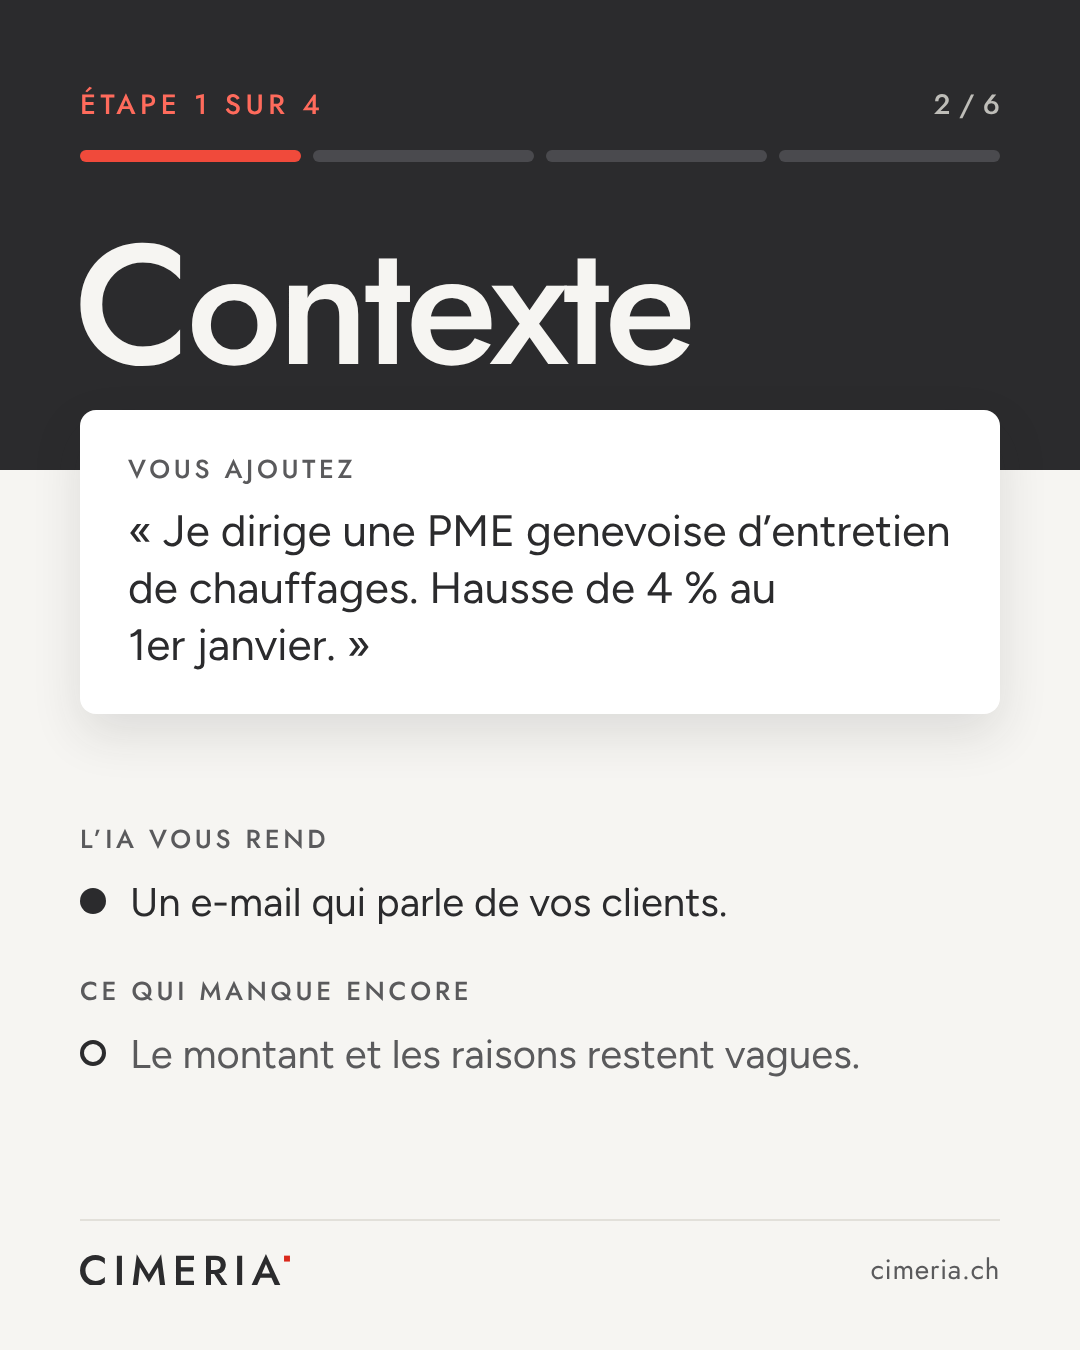
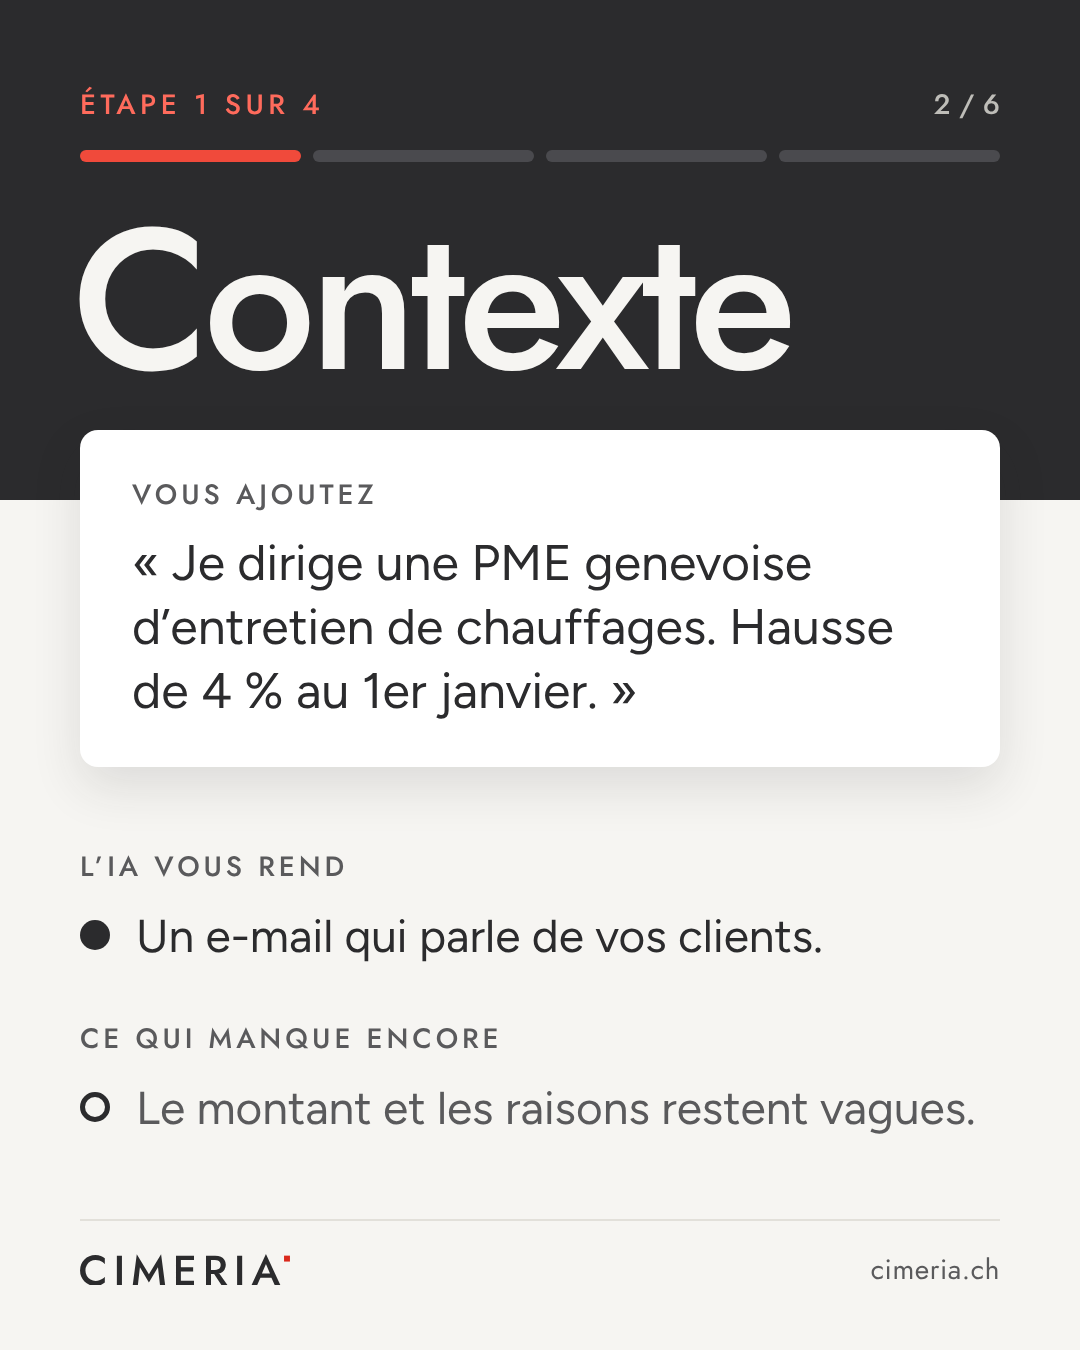
Maquettes v4 : espace mieux occupé
Claude-Session: https://claude.ai/code/session_01QYrK9sT28DGg33dLHEJ4sL

Changed region(s): [[0.0, 0.1556, 1.0, 0.56], [0.0611, 0.5911, 0.8861, 0.84]]

diff --git a/maquettes/2026-11-17/maquettes-v2.py b/maquettes/2026-11-17/maquettes-v2.py
@@ -70,8 +70,9 @@ def point_de_vue():
     return page(corps)
 
 # 4. Cas pratique, couverture illustrée (dessin au trait, un seul détail rouge)
-def illustration_email():
-    return f"""<svg viewBox='0 0 600 420' width='600' height='420' fill='none' stroke='{ENCRE}' stroke-width='6' stroke-linejoin='round' stroke-linecap='round'>
+def illustration_email(k=0.0):
+    w, h = (600, 420) if not k else (620, 434)
+    return f"""<svg viewBox='0 0 600 420' width='{w}' height='{h}' fill='none' stroke='{ENCRE}' stroke-width='6' stroke-linejoin='round' stroke-linecap='round'>
       <rect x='40' y='70' width='440' height='300' rx='14' fill='{BLANC}'/>
       <path d='M40 84 L260 240 L480 84'/>
       <path d='M40 356 L200 210 M480 356 L320 210'/>
@@ -135,8 +136,8 @@ def etape_v3(n, mot, ajout, gains, reste, lib_reste="Ce qui manque encore", cpt=
 def etape1(): return etape_v3(1, "Contexte", "Je dirige une PME genevoise d’entretien de chauffages. Hausse de 4 % au 1er\u00a0janvier.",
                              ["Un e-mail qui parle de vos clients."], "Le montant et les raisons restent vagues.", cpt="2 / 6")
 def etape4(): return etape_v3(4, "Cadre", "120 mots au plus. Signale-moi ce que tu as dû inventer.",
-                             ["Un e-mail de 105 mots, deux objets au choix.", "La liste de ce que l’IA a supposé."],
-                             "Vous relisez. Le texte part sous votre signature.", lib_reste="Votre part", cpt="5 / 6")
+                             ["Un e-mail de 105 mots.", "La liste de ce que l’IA a supposé."],
+                             "Vous relisez avant l’envoi.", lib_reste="Votre part", cpt="5 / 6")
 
 RENDUS = [("v3-1-chiffre.png", chiffre_v3), ("v3-5-etape-1.png", etape1), ("v3-5-etape-4.png", etape4)]
 
@@ -145,11 +146,11 @@ R_SOMBRE, BLANC_C, DOUCE_S = "#F04A3B", "#F6F5F2", "#BEBDB8"
 def chiffre_v4():
     corps = f"""<div style='position:absolute;inset:0;background:{ENCRE}'></div>
     <div class='rub' style='color:#FF6B5C'>Le chiffre</div>
-    <div style='position:absolute;left:72px;top:150px;font-family:Jost;font-weight:500;font-size:330px;line-height:1;letter-spacing:-.04em;color:{BLANC_C}'><span style='color:{R_SOMBRE}'>1</span> sur 3</div>
-    <div style='position:absolute;left:80px;right:80px;top:520px;font-family:Jost;font-weight:500;font-size:58px;line-height:1.15;letter-spacing:-.01em;color:{BLANC_C}'>Seule une PME suisse sur trois qui utilise l’IA a fixé des règles claires pour protéger ses données.</div>
-    <div style='position:absolute;left:80px;right:80px;top:840px;padding-top:40px;border-top:2px solid #4A4A4E;font-size:40px;line-height:1.35;color:{DOUCE_S}'>
+    <div style='position:absolute;left:66px;top:140px;white-space:nowrap;font-family:Jost;font-weight:500;font-size:345px;line-height:1;letter-spacing:-.045em;color:{BLANC_C}'><span style='color:{R_SOMBRE}'>1</span> sur 3</div>
+    <div style='position:absolute;left:80px;right:80px;top:560px;font-family:Jost;font-weight:500;font-size:62px;line-height:1.14;letter-spacing:-.01em;color:{BLANC_C}'>Seule une PME suisse sur trois qui utilise l’IA a fixé des règles claires pour protéger ses données.</div>
+    <div style='position:absolute;left:80px;right:80px;top:850px;padding-top:44px;border-top:2px solid #4A4A4E;font-size:46px;line-height:1.35;color:{DOUCE_S}'>
       Une page suffit. Elle dit ce qui entre dans l’outil, ce qui n’y entre jamais et qui relit avant l’envoi.</div>
-    <div style='position:absolute;left:80px;right:80px;top:1150px;font-size:26px;color:{DOUCE_S}'>Source · AXA, étude sur le marché du travail des PME, édition 2025.</div>
+    <div style='position:absolute;left:80px;right:80px;top:1168px;font-size:26px;color:{DOUCE_S}'>Source · AXA, étude sur le marché du travail des PME, édition 2025.</div>
     <div class='pied' style='border-top-color:#4A4A4E'>{g.logotype(BLANC_C, ROUGE, 210)}<div class='site' style='color:{DOUCE_S}'>cimeria.ch</div></div>"""
     return page(corps)
 
@@ -161,35 +162,36 @@ def progression_v4(n, total=4):
         f"<div style='flex:1;height:12px;border-radius:6px;background:{R_SOMBRE if i < n else '#4A4A4E'}'></div>" for i in range(total)) + "</div>"
 
 def etape_v4(n, mot, ajout, gains, reste, lib_reste="Ce qui manque encore", cpt=""):
-    puce = lambda plein: f"<div style='width:26px;height:26px;border-radius:50%;flex:none;margin-top:12px;{'background:'+ENCRE if plein else 'border:4px solid '+ENCRE}'></div>"
-    lignes = "".join(f"<div style='display:flex;gap:24px;font-size:40px;line-height:1.3;margin-top:18px'>{puce(True)}<div>{e(x)}</div></div>" for x in gains)
-    etiq = lambda t, m=0: f"<div style='font-family:Jost;font-weight:500;font-size:26px;letter-spacing:.14em;text-transform:uppercase;color:{DOUCE};margin-top:{m}px'>{t}</div>"
-    corps = f"""{bandeau(470)}
+    puce = lambda plein: f"<div style='width:30px;height:30px;border-radius:50%;flex:none;margin-top:13px;{'background:'+ENCRE if plein else 'border:5px solid '+ENCRE}'></div>"
+    lignes = "".join(f"<div style='display:flex;gap:26px;font-size:46px;line-height:1.28;margin-top:20px'>{puce(True)}<div>{e(x)}</div></div>" for x in gains)
+    etiq = lambda t, m=0: f"<div style='font-family:Jost;font-weight:500;font-size:28px;letter-spacing:.14em;text-transform:uppercase;color:{DOUCE};margin-top:{m}px'>{t}</div>"
+    corps = f"""{bandeau(500)}
     <div class='rub' style='color:#FF6B5C'>Étape {n} sur 4</div><div class='cpt' style='color:{DOUCE_S}'>{cpt}</div>
     <div style='position:absolute;left:80px;right:80px;top:150px'>{progression_v4(n)}</div>
-    <div style='position:absolute;left:74px;top:220px;font-family:Jost;font-weight:500;font-size:170px;line-height:1;letter-spacing:-.03em;color:{BLANC_C}'>{e(mot)}</div>
-    <div style='position:absolute;left:80px;right:80px;top:410px;background:{BLANC};border-radius:16px;padding:40px 48px;box-shadow:0 20px 50px rgba(43,43,45,.12)'>
-      {etiq('Vous ajoutez')}
-      <div style='font-size:44px;line-height:1.3;margin-top:14px'>« {e(ajout)} »</div></div>
-    <div style='position:absolute;left:80px;right:80px;top:820px'>
-      {etiq('L’IA vous rend')}{lignes}
-      {etiq(e(lib_reste), 44)}
-      <div style='display:flex;gap:24px;font-size:40px;line-height:1.3;margin-top:18px;color:{DOUCE}'>{puce(False)}<div>{e(reste)}</div></div></div>
+    <div style='position:absolute;left:72px;top:200px;font-family:Jost;font-weight:500;font-size:200px;line-height:1;letter-spacing:-.035em;color:{BLANC_C}'>{e(mot)}</div>
+    <div style='position:absolute;left:80px;right:80px;top:430px;bottom:170px;display:flex;flex-direction:column'>
+      <div style='background:{BLANC};border-radius:18px;padding:44px 52px;box-shadow:0 20px 50px rgba(43,43,45,.12)'>
+        {etiq('Vous ajoutez')}
+        <div style='font-size:50px;line-height:1.28;margin-top:16px'>« {e(ajout)} »</div></div>
+      <div style='flex:1;display:flex;flex-direction:column;justify-content:center;padding-top:36px'>
+        {etiq('L’IA vous rend')}{lignes}
+        {etiq(e(lib_reste), 52)}
+        <div style='display:flex;gap:26px;font-size:46px;line-height:1.28;margin-top:20px;color:{DOUCE}'>{puce(False)}<div>{e(reste)}</div></div></div></div>
     {pied()}"""
     return page(corps)
 
 def etape1_v4(): return etape_v4(1, "Contexte", "Je dirige une PME genevoise d’entretien de chauffages. Hausse de 4 % au 1er\u00a0janvier.",
                              ["Un e-mail qui parle de vos clients."], "Le montant et les raisons restent vagues.", cpt="2 / 6")
 def etape4_v4(): return etape_v4(4, "Cadre", "120 mots au plus. Signale-moi ce que tu as dû inventer.",
-                             ["Un e-mail de 105 mots, deux objets au choix.", "La liste de ce que l’IA a supposé."],
-                             "Vous relisez. Le texte part sous votre signature.", lib_reste="Votre part", cpt="5 / 6")
+                             ["Un e-mail de 105 mots.", "La liste de ce que l’IA a supposé."],
+                             "Vous relisez avant l’envoi.", lib_reste="Votre part", cpt="5 / 6")
 
 def couverture_v4():
-    corps = f"""{bandeau(640)}
+    corps = f"""{bandeau(700)}
     <div class='rub' style='color:#FF6B5C'>Cas pratique</div><div class='cpt' style='color:{DOUCE_S}'>1 / 6</div>
-    <div class='titre' style='font-size:92px;color:{BLANC_C}'>Annoncer une hausse de prix avec l’IA<div class='sous' style='color:{DOUCE_S};font-size:38px'>Un e-mail prêt à relire en 4 étapes.</div></div>
-    <div style='position:absolute;left:0;right:0;top:700px;display:flex;justify-content:center'>{illustration_email()}</div>
-    <div style='position:absolute;left:80px;right:80px;top:1140px;font-size:26px;color:{DOUCE};text-align:center'>Exemple fictif d’une PME genevoise de 18 collaborateurs.</div>
+    <div class='titre' style='font-size:118px;line-height:1.02;color:{BLANC_C}'>Annoncer une hausse de prix avec l’IA<div class='sous' style='color:{DOUCE_S};font-size:42px;margin-top:30px'>Un e-mail prêt à relire en 4 étapes.</div></div>
+    <div style='position:absolute;left:0;right:0;top:730px;display:flex;justify-content:center'>{illustration_email(1.0)}</div>
+    <div style='position:absolute;left:80px;right:80px;top:1172px;font-size:26px;color:{DOUCE};text-align:center'>Exemple fictif d’une PME genevoise de 18 collaborateurs.</div>
     {pied('Faites défiler →')}"""
     return page(corps)
 
